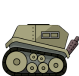
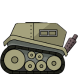
turret moves

diff --git a/TankGame.java b/TankGame.java
@@ -33,12 +33,13 @@ public class TankGame extends JPanel implements ActionListener, KeyListener {
     public double temptime = 0;
     private double speedTime = 1.25;   
     public Tank player;
-    public int angle = 45;
+    public int angle = 0;
     public int velocity = 50;
     int space_counter = 0;
-    public int score = 0;
+    public static int score = 0;
     static JFrame frame;
-
+    private int xoffset;  private int yoffset;
+    private JLabel scores;
     //Sets up the basic GUI for the game
     public static void main(String[] args) {
         // GraphicsEnvironment graphics =
@@ -48,11 +49,10 @@ public class TankGame extends JPanel implements ActionListener, KeyListener {
         System.out.println("hi");
         frame.setTitle("Tank Game");
         frame.setLayout(new BorderLayout());
-        JLabel label1 = new JLabel("Score : 0");
+
         TankGame game = new TankGame();
         
         frame.add(game, BorderLayout.CENTER);
-        
         game.addKeyListener(game);
         frame.addKeyListener(game);
 
@@ -168,7 +168,7 @@ public class TankGame extends JPanel implements ActionListener, KeyListener {
         // }
         if (speedup){
             velocity +=1;
-            if (velocity > 300)  velocity = 300;
+            if (velocity > 100)  velocity = 100;
 
         }
         if (speedown){
@@ -178,16 +178,19 @@ public class TankGame extends JPanel implements ActionListener, KeyListener {
         }
         if (up){
             angle+=1;
+            if (angle >180) angle = 180;
+
         }
         if (down){
             angle -= 1;
+            if (angle < 0) angle = 0;
         }
         if (space && space_counter == 0){
-            a = new Projectiles(player.rect.x+player.width, player.rect.y, 50, 20, velocity, angle);
+            a = new Projectiles(player.rect.x+xoffset, player.rect.y+yoffset, 50, 10, velocity, angle);
             space_counter+=1;
         }
         if (space && space_counter != 0 && a.hitwall == true){
-            a = new Projectiles(player.rect.x+player.width, player.rect.y, 50, 20, velocity,angle);
+            a = new Projectiles(player.rect.x+xoffset, player.rect.y+yoffset, 50, 10, velocity,angle);
         }
         if(left) {
             player.moveX(-3,bg);
@@ -204,22 +207,81 @@ public class TankGame extends JPanel implements ActionListener, KeyListener {
     public void paint(Graphics g) {
         final Image images = new ImageIcon("tankBg.png").getImage(); //You need this
         Graphics2D g2 = (Graphics2D) g;
+        
 
         g2.drawImage(images, 0, 0, gameWidth,gameHeight, frame); //to this
         if (player.dropping) player.move(bg,  (System.currentTimeMillis() - startTime) /(speedTime*100), speedTime);
         player.draw(g);
-        final Image image = new ImageIcon("tank.png").getImage(); //You need this
+        Image bottom;
+        Image top;
+        Image turret = new ImageIcon("tankTurret.png").getImage();
+        if (player.last_move_right){
+            bottom = new ImageIcon("tankBodyRight.png").getImage(); //You need this
+            g2.drawImage(bottom, player.rect.x, player.rect.y, player.rect.width, player.rect.height, frame); //to this
+        }
+        else{
+            bottom = new ImageIcon("tankBodyLeft.png").getImage(); //You need this
+            g2.drawImage(bottom, player.rect.x, player.rect.y, player.rect.width, player.rect.height, frame); //to this
+        }
+        int w = (int)((double)turret.getWidth(frame) / (double)bottom.getWidth(frame)*(double)player.rect.width);
+        int h = (int)((double)turret.getHeight(frame) / (double)bottom.getHeight(frame)*(double)player.rect.height);
+        Graphics copy = g.create();
+        int xoff; int yoff;
+        if (angle < 90){
+            top = new ImageIcon("tankTopRight.png").getImage(); //You need this
+            g2.drawImage(top, player.rect.x, player.rect.y, player.rect.width, player.rect.height, frame); //to this
+            Graphics2D g3 = (Graphics2D) copy;
+            xoff = (int)((double)player.rect.width*0.68);
+            yoff = (int)((double)player.rect.height*0.1);
+            g3.rotate(Math.toRadians(-angle),  player.rect.x+ xoff, player.rect.y+ yoff+ (double)turret.getHeight(frame)/2);
+            g3.drawImage(turret,player.rect.x+ xoff, player.rect.y+ yoff, w, h, frame);
+        }
+        else{
+            top = new ImageIcon("tankTopLeft.png").getImage(); //You need this
+            g2.drawImage(top, player.rect.x, player.rect.y, player.rect.width, player.rect.height, frame); //to this
+            Graphics2D g3 = (Graphics2D) copy;
+            xoff = (int)((double)player.rect.width/3.4);
+            yoff = (int)((double)player.rect.height*0.1+turret.getHeight(frame)*0.5);
+            g3.rotate(Math.toRadians(-angle),  player.rect.x+ xoff, player.rect.y+ yoff+ (double)turret.getHeight(frame)/2);
+            g3.drawImage(turret,player.rect.x+ xoff, player.rect.y+ yoff, w, h, frame);
+        }
+        xoffset = xoff + (int)(turret.getWidth(frame)*Math.acos(Math.toRadians(angle))*1.5);
+        yoffset = yoff + (int)(turret.getWidth(frame)*Math.asin(Math.toRadians(angle))*1.5);
+        copy.dispose();
+        // if (angle < 90){
+        //     image = new ImageIcon("tankBodyRight.png").getImage(); //You need this
+        //     int w = (int)((double)top.getWidth(frame) / (double)image.getWidth(frame)*(double)player.rect.width);
+        //     int h = (int)((double)top.getHeight(frame) / (double)image.getHeight(frame)*(double)player.rect.height);
+        //     g3.rotate(Math.toRadians(-angle),  player.rect.x+ player.rect.width/2+40, player.rect.y+10+h/2);
+        //     g3.drawImage(top, player.rect.x+ player.rect.width/2+40,  player.rect.y+10, w, h, frame); //to this
+        // }
+        // else{
+        //     image = new ImageIcon("tankBodyLeft.png").getImage(); //You need thisddddd
+        //     int w = (int)((double)top.getWidth(frame) / (double)image.getWidth(frame)*(double)player.rect.width);
+        //     int h = (int)((double)top.getHeight(frame) / (double)image.getHeight(frame)*(double)player.rect.height);
+        //     g3.rotate(Math.toRadians(-angle),  player.rect.x+40, player.rect.y+10+h/2);
+        //     g3.drawImage(top, player.rect.x +40,  player.rect.y+10, w, h, frame); //to this
+        // }
+        System.out.println(score);
         
-        g2.drawImage(image, player.rect.x, player.rect.y, player.rect.width, player.rect.height, frame); //to this
         bg.draw(g);
         b.move((System.currentTimeMillis() - startTime) /(1000), bg);
         b.draw(g);
         final Image imager = new ImageIcon("Hoop.jpeg").getImage(); //You need this
         g2.drawImage(imager, b.rect.x, b.rect.y, b.rect.width,b.rect.height, frame); //to this
+        
+        if (Objects.isNull(scores)){
+            scores = new JLabel("Score : " + 0);
+            frame.add(scores, BorderLayout.NORTH);
+        }
         if (Objects.isNull(a) == false && !a.hitwall){
             if (b.intersectsGoal(a.rect)){
                 a.hitwall = true;
+                
+                frame.add(scores, BorderLayout.NORTH);
                 score +=1;
+                scores.setText("Score : " + score);
+
             }
             a.move((double) (System.currentTimeMillis() - startTimeT) /(100), bg);
             a.draw(g);

diff --git a/Tank.java b/Tank.java
@@ -12,6 +12,8 @@ public class Tank {
     public int center;
     public double size;
     boolean dropping = true;
+    public boolean last_move_right = true;
+
     public Tank(double s, int x, int y) {
         size = s;
         width = (int)(50*size);
@@ -39,6 +41,7 @@ public class Tank {
     public void moveX(int xa, Background a){
         if ((a.leftwallIntersects(rect) && xa < 0) || (a.rightwallIntersects(rect) && xa > 0)) return;
         rect.x += xa;
+        last_move_right = (xa > 0);
     }
     public boolean moveY(int ya, Background a){
         rect.y += ya;
